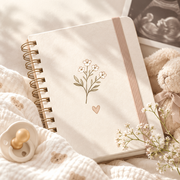
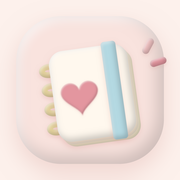
Add files via upload

diff --git a/index.html b/index.html
@@ -3,20 +3,20 @@
 <head>
 <meta charset="utf-8">
 <meta name="viewport" content="width=device-width, initial-scale=1, viewport-fit=cover">
-<title>出産準備ノート</title>
-<meta name="theme-color" content="#FCF2EF">
+<title>ママノート</title>
+<meta name="theme-color" content="#FEF7F4">
 <meta name="apple-mobile-web-app-capable" content="yes">
 <meta name="mobile-web-app-capable" content="yes">
-<meta name="apple-mobile-web-app-title" content="出産準備ノート">
+<meta name="apple-mobile-web-app-title" content="ママノート">
 <meta name="apple-mobile-web-app-status-bar-style" content="default">
 <link rel="manifest" href="manifest.webmanifest">
 <link rel="apple-touch-icon" href="apple-touch-icon.png">
 <link rel="icon" type="image/png" sizes="32x32" href="favicon-32.png">
 <style>
 :root{
-  --bg:#FCF2EF; --bg2:#F5E6E2; --card:#FFFDFB; --ink:#4E3F3C; --sub:#84706A; --faint:#C2AFA9;
-  --line:#F1E2DD; --blue:#EDB9BF; --blue-d:#B5707C; --blue-l:#FAE6E8;
-  --brown:#B39580; --brown-d:#7F6350; --brown-l:#F4E8DE;
+  --bg:#FEF7F4; --bg2:#F9ECE7; --card:#FFFDFB; --ink:#4F3F42; --sub:#85707A; --faint:#CBB9BC;
+  --line:#F3E4E2; --blue:#EDBFBF; --blue-d:#E3969F; --blue-l:#FCE6E8; --acc-ink:#B24C5F;
+  --brown:#8FC3D2; --brown-d:#3F7F93; --brown-l:#E4F3F7;
   --serif:"Hiragino Maru Gothic ProN","Zen Maru Gothic","Yu Gothic","Noto Sans JP",sans-serif;
   --sans:"Hiragino Maru Gothic ProN","Hiragino Sans","Yu Gothic","Noto Sans JP",system-ui,sans-serif;
 }
@@ -31,27 +31,27 @@ svg.i{width:22px;height:22px;fill:none;stroke:currentColor;stroke-width:1.7;stro
 .ph{padding:30px 0 20px}
 .ph h1{margin:0;font-family:var(--serif);font-size:27px;font-weight:600;letter-spacing:.05em;line-height:1.35}
 .ph p{margin:6px 0 0;color:var(--sub);font-size:13px}
-.back{display:inline-flex;align-items:center;gap:2px;color:var(--blue-d);font-size:13px;font-weight:600;margin:20px 0 0 -4px;padding:6px 6px 6px 0}
+.back{display:inline-flex;align-items:center;gap:2px;color:var(--acc-ink);font-size:13px;font-weight:600;margin:20px 0 0 -4px;padding:6px 6px 6px 0}
 .back svg.i{width:18px;height:18px}
 .back + .ph{padding-top:8px}
 
 /* cards */
-.card{background:var(--card);border-radius:26px;padding:20px;margin-bottom:16px;border:1px solid rgba(241,226,221,.8);box-shadow:0 10px 30px rgba(160,100,104,.07)}
+.card{background:var(--card);border-radius:26px;padding:20px;margin-bottom:16px;border:1px solid rgba(241,229,220,.8);box-shadow:0 10px 30px rgba(190,140,130,.07)}
 .card h2,.card h3{font-family:var(--serif);font-weight:600;margin:0;letter-spacing:.03em}
 .card h3{font-size:17px}
 .sub{color:var(--sub);font-size:12.5px}
 .sec{font-family:var(--serif);font-size:15px;font-weight:600;margin:26px 2px 12px;color:var(--brown-d);letter-spacing:.04em}
 
 /* hero */
-.hero{background:var(--blue-d);color:#FFFCF7;border:0;padding:26px 24px 22px;box-shadow:0 14px 34px rgba(181,112,124,.30)}
+.hero{background:#F7D0D4;color:var(--ink);border:0;padding:26px 24px 22px;box-shadow:0 14px 34px rgba(227,150,159,.32)}
 .hero .hl{font-size:13px;opacity:.85;letter-spacing:.12em}
 .hero .big{font-family:var(--serif);font-size:20px;margin:4px 0 6px;display:flex;align-items:baseline;gap:4px;white-space:nowrap}
-.hero .big b{font-size:64px;font-weight:500;line-height:1.1;letter-spacing:-.02em;margin-left:2px}
+.hero .big b{color:var(--acc-ink);font-size:64px;font-weight:500;line-height:1.1;letter-spacing:-.02em;margin-left:2px}
 .hero .big b + span{margin-right:10px}
 .hero .hs{font-size:15px}
 .hero .hs b{font-family:var(--serif);font-size:22px;font-weight:600;margin:0 2px}
-.hero .pb{background:rgba(255,252,247,.25);margin:18px 0 12px}
-.hero .pb i{background:#FFFCF7}
+.hero .pb{background:rgba(255,253,250,.65);margin:18px 0 12px}
+.hero .pb i{background:#E3969F}
 .hero .hm{display:flex;justify-content:space-between;font-size:12.5px;opacity:.9;gap:8px}
 .hero .lnk{margin-top:14px;font-size:12.5px;text-decoration:underline;text-underline-offset:3px;opacity:.9}
 .hero h2{font-size:19px}
@@ -59,12 +59,12 @@ svg.i{width:22px;height:22px;fill:none;stroke:currentColor;stroke-width:1.7;stro
 
 /* progress */
 .pb{height:8px;background:var(--bg2);border-radius:99px;overflow:hidden}
-.pb i{display:block;height:100%;background:var(--blue);border-radius:99px;min-width:0}
+.pb i{display:block;height:100%;background:var(--blue-d);border-radius:99px;min-width:0}
 .pb.br i{background:var(--brown)}
 
 /* tiles */
 .grid2{display:grid;grid-template-columns:1fr 1fr;gap:14px;margin-bottom:16px}
-.tile-s{background:var(--card);border-radius:20px;padding:16px;border:1px solid rgba(241,226,221,.8);box-shadow:0 8px 24px rgba(160,100,104,.06);display:flex;flex-direction:column;gap:8px;min-height:128px}
+.tile-s{background:var(--card);border-radius:20px;padding:16px;border:1px solid rgba(241,229,220,.8);box-shadow:0 8px 24px rgba(190,140,130,.06);display:flex;flex-direction:column;gap:8px;min-height:128px}
 .tile-s .t{font-size:12.5px;color:var(--sub)}
 .tile-s .v{font-family:var(--serif);font-size:30px;line-height:1.15;font-weight:500}
 .tile-s .v small{font-size:13px;margin-left:2px}
@@ -72,8 +72,8 @@ svg.i{width:22px;height:22px;fill:none;stroke:currentColor;stroke-width:1.7;stro
 .tile-s .n{font-size:12px;color:var(--sub)}
 
 /* link rows */
-.lrow{display:flex;align-items:center;gap:14px;width:100%;padding:17px 20px;background:var(--card);border-radius:20px;margin-bottom:12px;border:1px solid rgba(241,226,221,.8);box-shadow:0 8px 24px rgba(160,100,104,.05)}
-.lrow .ic{width:42px;height:42px;border-radius:14px;background:var(--blue-l);color:var(--blue-d);display:grid;place-items:center;flex:none}
+.lrow{display:flex;align-items:center;gap:14px;width:100%;padding:17px 20px;background:var(--card);border-radius:20px;margin-bottom:12px;border:1px solid rgba(241,229,220,.8);box-shadow:0 8px 24px rgba(190,140,130,.05)}
+.lrow .ic{width:42px;height:42px;border-radius:14px;background:var(--blue-l);color:var(--acc-ink);display:grid;place-items:center;flex:none}
 .lrow .ic.b{background:var(--brown-l);color:var(--brown-d)}
 .lrow .tt{flex:1;min-width:0}
 .lrow .tt b{display:block;font-family:var(--serif);font-size:16px;font-weight:600}
@@ -81,12 +81,12 @@ svg.i{width:22px;height:22px;fill:none;stroke:currentColor;stroke-width:1.7;stro
 .lrow > svg.i{width:18px;height:18px;color:var(--faint)}
 
 /* buttons / inputs */
-.btn{display:inline-flex;align-items:center;justify-content:center;gap:6px;background:var(--blue-d);color:#FFFCF7;border-radius:14px;padding:13px 20px;font-weight:600;font-size:15px;letter-spacing:.04em;text-align:center}
+.btn{display:inline-flex;align-items:center;justify-content:center;gap:6px;background:var(--blue-d);color:#4F2F33;border-radius:14px;padding:13px 20px;font-weight:600;font-size:15px;letter-spacing:.04em;text-align:center}
 .btn:active{transform:scale(.98)}
 .btn.sm{padding:11px 16px;font-size:14px;flex:none}
 .btn.block{display:flex;width:100%;margin-top:6px}
 .btn.ghost{background:var(--brown-l);color:var(--brown-d)}
-.btn.cream{background:#FFFCF7;color:var(--blue-d)}
+.btn.cream{background:var(--blue-d);color:#4F2F33}
 .btn svg.i{width:18px;height:18px}
 .btn-text{display:block;width:100%;text-align:center;padding:14px;font-size:14px;color:var(--sub)}
 .btn-text.danger{color:#A5594B}
@@ -101,14 +101,14 @@ textarea.in{resize:vertical;line-height:1.6}
 .hid{position:absolute;width:1px;height:1px;opacity:0;pointer-events:none}
 .top-act{display:flex;justify-content:flex-end;margin:-6px 0 16px}
 .empty{text-align:center;color:var(--sub);font-size:13.5px;padding:34px 12px}
-.hero.empty{text-align:left;color:#FFFCF7;padding:26px 24px}
-.hero .in{background:rgba(255,252,247,.96)}
+.hero.empty{text-align:left;color:var(--ink);padding:26px 24px}
+.hero .in{background:rgba(255,253,250,.96)}
 
 /* checklist */
 .cat{padding:0;overflow:hidden}
 .cat-h{display:flex;align-items:center;gap:12px;width:100%;padding:18px 20px 12px}
 .cat-h > div:first-child{flex:1;min-width:0}
-.pc{font-family:var(--serif);font-size:20px;color:var(--blue-d)}
+.pc{font-family:var(--serif);font-size:20px;color:var(--acc-ink)}
 .chev{color:var(--faint);transition:transform .2s}
 .chev.up{transform:rotate(90deg)}
 .chev svg.i{width:18px;height:18px}
@@ -116,9 +116,9 @@ textarea.in{resize:vertical;line-height:1.6}
 .items{padding:0 20px 20px;border-top:1px solid var(--line)}
 .it{padding:12px 0;border-bottom:1px solid var(--line)}
 .itm{display:flex;align-items:center;gap:12px}
-.ck{width:26px;height:26px;border-radius:50%;border:1.8px solid var(--blue);display:grid;place-items:center;flex:none;color:transparent;background:#fff}
+.ck{width:26px;height:26px;border-radius:50%;border:1.8px solid var(--blue-d);display:grid;place-items:center;flex:none;color:transparent;background:#fff}
 .ck svg.i{width:15px;height:15px;stroke-width:2.6}
-.ck.on{background:var(--blue-d);border-color:var(--blue-d);color:#FFFCF7}
+.ck.on{background:var(--blue-d);border-color:var(--blue-d);color:#4F2F33}
 .tx{flex:1;min-width:0;word-break:break-all}
 .done .tx{color:var(--faint);text-decoration:line-through;text-decoration-color:var(--faint)}
 .ib{width:34px;height:34px;border-radius:10px;display:grid;place-items:center;color:var(--faint);flex:none}
@@ -131,11 +131,11 @@ textarea.in{resize:vertical;line-height:1.6}
 /* timeline */
 .tl{position:relative;padding-left:24px;margin-top:6px}
 .tl:before{content:"";position:absolute;left:6px;top:10px;bottom:10px;width:2px;background:var(--line)}
-.tli{position:relative;width:100%;display:block;background:var(--card);border-radius:20px;padding:16px 18px;margin-bottom:14px;border:1px solid rgba(241,226,221,.8);box-shadow:0 8px 24px rgba(160,100,104,.06)}
+.tli{position:relative;width:100%;display:block;background:var(--card);border-radius:20px;padding:16px 18px;margin-bottom:14px;border:1px solid rgba(241,229,220,.8);box-shadow:0 8px 24px rgba(190,140,130,.06)}
 .tli:before{content:"";position:absolute;left:-23px;top:22px;width:12px;height:12px;border-radius:50%;background:var(--card);border:3px solid var(--blue)}
 .tli .d{display:flex;justify-content:space-between;align-items:baseline;gap:8px}
 .tli .d b{font-family:var(--serif);font-size:16px;font-weight:600}
-.badge{background:var(--blue-l);color:var(--blue-d);font-size:12px;font-weight:600;padding:3px 10px;border-radius:99px;white-space:nowrap}
+.badge{background:var(--blue-l);color:var(--acc-ink);font-size:12px;font-weight:600;padding:3px 10px;border-radius:99px;white-space:nowrap}
 .chips{display:flex;flex-wrap:wrap;gap:8px;margin:12px 0 0}
 .chip{background:var(--bg);border-radius:12px;padding:6px 11px;font-family:var(--serif);font-size:16px}
 .chip em{font-style:normal;font-family:var(--sans);font-size:11px;color:var(--sub);margin-right:6px}
@@ -144,7 +144,7 @@ textarea.in{resize:vertical;line-height:1.6}
 
 /* echo */
 .gal{display:grid;grid-template-columns:1fr 1fr;gap:12px}
-.pt{position:relative;aspect-ratio:1;border-radius:18px;overflow:hidden;background:var(--bg2);display:block;width:100%;box-shadow:0 8px 22px rgba(160,100,104,.12)}
+.pt{position:relative;aspect-ratio:1;border-radius:18px;overflow:hidden;background:var(--bg2);display:block;width:100%;box-shadow:0 8px 22px rgba(190,140,130,.12)}
 .pt img{width:100%;height:100%;object-fit:cover;display:block}
 .pt span{position:absolute;left:0;right:0;bottom:0;padding:22px 12px 10px;color:#FFFCF7;font-size:12px;line-height:1.4;background:linear-gradient(transparent,rgba(60,48,40,.62))}
 .pt span b{display:block;font-family:var(--serif);font-size:15px;font-weight:600}
@@ -167,9 +167,9 @@ textarea.in{resize:vertical;line-height:1.6}
 .mh button svg.i{width:18px;height:18px}
 .cal{display:grid;grid-template-columns:repeat(7,1fr);gap:6px}
 .cal .w{text-align:center;font-size:11px;color:var(--sub);padding-bottom:4px}
-.cal .w:first-child{color:#B77F72}
-.cal .w:last-child{color:#7C9BAA}
-.cal button,.cal i{aspect-ratio:1/1.34;border-radius:14px;display:flex;flex-direction:column;align-items:center;justify-content:center;gap:2px;font-family:var(--serif);font-size:15px;line-height:1.1;background:var(--bg);padding:0;position:relative;min-width:0}
+.cal .w:first-child{color:#C07C78}
+.cal .w:last-child{color:#5E9BB0}
+.cal button,.cal i{aspect-ratio:1/1.34;border-radius:14px;display:flex;flex-direction:column;align-items:center;justify-content:center;gap:2px;font-family:var(--serif);font-size:15px;line-height:1.1;background:var(--bg2);padding:0;position:relative;min-width:0}
 .cal button small{font-size:9.5px;opacity:.72;letter-spacing:-.02em;font-family:var(--sans)}
 .cal button small.wk0{opacity:1;font-weight:700}
 .cal button s{position:absolute;top:4px;right:4px;width:6px;height:6px;border-radius:50%;background:var(--brown-d);box-shadow:0 0 0 1.5px #FFFDFB;text-decoration:none}
@@ -201,12 +201,12 @@ textarea.in{resize:vertical;line-height:1.6}
 .mood-b.on{box-shadow:inset 0 0 0 2px var(--blue-d);background:var(--blue-l)}
 
 /* diary */
-.dr{display:flex;gap:14px;width:100%;padding:16px 18px;background:var(--card);border-radius:20px;margin-bottom:12px;border:1px solid rgba(241,226,221,.8);box-shadow:0 8px 24px rgba(160,100,104,.05);align-items:center}
+.dr{display:flex;gap:14px;width:100%;padding:16px 18px;background:var(--card);border-radius:20px;margin-bottom:12px;border:1px solid rgba(241,229,220,.8);box-shadow:0 8px 24px rgba(190,140,130,.05);align-items:center}
 .dr .dd{width:48px;text-align:center;flex:none}
 .dr .dd b{display:block;font-family:var(--serif);font-size:26px;font-weight:500;line-height:1.1}
 .dr .dd small{font-size:11px;color:var(--sub)}
 .dr .tt{flex:1;min-width:0;word-break:break-all}
-.dr .tt small{display:block;color:var(--blue-d);font-size:11.5px;font-weight:600}
+.dr .tt small{display:block;color:var(--acc-ink);font-size:11.5px;font-weight:600}
 .dr img{width:56px;height:56px;border-radius:12px;object-fit:cover;flex:none}
 .dform .pvs{display:flex;align-items:center;gap:12px;margin-top:12px}
 .dform .pvs img{width:64px;height:64px;border-radius:12px;object-fit:cover}
@@ -225,8 +225,8 @@ textarea.in{resize:vertical;line-height:1.6}
 /* nav */
 nav{position:fixed;left:0;right:0;bottom:0;z-index:40;background:rgba(255,252,247,.92);-webkit-backdrop-filter:blur(18px);backdrop-filter:blur(18px);border-top:1px solid var(--line);padding-bottom:env(safe-area-inset-bottom)}
 nav div{max-width:520px;margin:0 auto;display:grid;grid-template-columns:repeat(5,1fr);padding:8px 10px 6px}
-nav button{display:flex;flex-direction:column;align-items:center;gap:3px;padding:6px 0;border-radius:14px;color:var(--faint);font-size:10.5px;font-weight:600;text-align:center}
-nav button.on{color:var(--blue-d);background:var(--blue-l)}
+nav button{display:flex;flex-direction:column;align-items:center;gap:3px;padding:6px 0;border-radius:14px;color:#9B8780;font-size:10.5px;font-weight:600;text-align:center}
+nav button.on{color:var(--acc-ink);background:var(--blue-l)}
 #toast{position:fixed;left:50%;bottom:calc(100px + env(safe-area-inset-bottom));transform:translateX(-50%);background:rgba(75,64,56,.94);color:#FFFCF7;padding:10px 18px;border-radius:99px;font-size:13px;z-index:80;opacity:0;pointer-events:none;transition:opacity .2s;max-width:90vw;text-align:center}
 #toast.on{opacity:1}
 .note{font-size:12.5px;color:var(--sub);margin:10px 0 0;line-height:1.7}
@@ -273,36 +273,50 @@ const pb=(p,c='')=>`<div class="pb ${c}" role="progressbar" aria-valuenow="${p}"
 
 /* ===== data ===== */
 const KEY='shussan-note-v1';
-const MOODS=[{v:1,n:'元気',c:'#F4CFD3'},{v:2,n:'軽い',c:'#E8A9B2'},{v:3,n:'普通',c:'#E6D6C6'},{v:4,n:'つらい',c:'#C99C90'},{v:5,n:'とてもつらい',c:'#8F625E'}];
+const MOODS=[{v:1,n:'元気',c:'#B4D9E2'},{v:2,n:'軽い',c:'#E8E9C7'},{v:3,n:'普通',c:'#EDBFBF'},{v:4,n:'つらい',c:'#E3969F'},{v:5,n:'とてもつらい',c:'#C05468'}];
 function defaults(){
   const L={
-   'ベビー服':['ボディ肌着 … 6枚','2wayオール … 3枚','おくるみ … 2枚','スワドル … 2枚','ガーゼ … 10枚程度',['退院着','マストではない。短肌着はあまり使わない派が多いので、必要なら産後に購入。']],
-   'お風呂・ケア':[['ベビーバス','体温計は大人用で大丈夫。温度計は不要と判断。'],'ボディソープ','保湿クリーム','バスタオル（ガーゼ生地）… 4枚程度',['ベビーブラシ','毛量を見て産後でもOK。'],'爪切り',['鼻吸い器（電動タイプも◎）','産後購入でもOK。'],'ベビー綿棒'],
-   '寝具':['ベビーベッド','マットレス',['ペットシーツ','枕・掛け布団は基本用意しなくてOK。防水シーツより使い捨てのペットシーツの方が楽との声あり。']],
-   'おむつ':['新生児用おむつ',['おしりふき','コストコのRICOが良い。'],['おむつ防臭袋','パン袋が良い。'],'おむつ替えシート（ペットシーツ）'],
-   'ミルク・授乳':['哺乳瓶 160ml … 2本','Sサイズ乳首 … 2個','哺乳瓶の除菌用品','哺乳瓶用洗剤','哺乳瓶用スポンジ',['授乳ライト','ホワイト・イエロー一体型（ドリームエッグ等）も候補。'],['粉ミルク … 1缶','産院と同じものを退院前後に買う方法でもOK。']],
-   '陣痛バッグ':['母子手帳','診察券','必要書類','財布','スマホ','充電器','延長コード','飲み物 … 4本','ストロー付きキャップ','軽食・おやつ','ハンディファン','テニスボール','冷えピタ','カイロ','マスク','ハンカチ … 3枚','リップ','汗ふきシート','パジャマ','産褥ショーツ','産褥パッド','筆記用具','夫分の飲み物と軽食'],
-   '入院バッグ':['パジャマ … 2着','スリッパ','靴下 … 2〜3足','着圧ソックス','レッグウォーマー','カーディガン','バスタオル','枕カバー用のフェイスタオル','母乳パッド','授乳ブラ … 3枚〜','ピュアレーン','おしりセレブ','除菌シート','円座クッション','骨盤ベルト','シャンプー','トリートメント','入浴後のヘアトリートメント','ドライシャンプー','スキンケア用品','メイクポーチ','ジップロック',['保冷剤','産後に胸が痛くなるため、あると良いとのこと。'],'洗濯ネット','飲み物','おやつ','手形・足形を取るもの','自身の退院着'],
-   'ちょこっとメモ':[['ベビーカー','産後でも間に合うことが多い。実際に試してから選ぶのも◎'],['抱っこ紐','産後でも間に合うことが多い。実際に試してから選ぶのも◎'],['チャイルドシート','退院時に自家用車で帰る場合は、事前に用意しておく。']]
+   '母乳育児':['母乳パッド','さく乳器','授乳クッション','乳首クリーム','母乳フリーザーパック'],
+   'ベビー服・お洗たく':['短肌着（3枚〜）','長肌着（3枚〜5枚）','ベビーウェア（2〜3枚）','おくるみ','ベビー用洗剤'],
+   '哺乳びん・乳首':['哺乳びん（3〜5本）','乳首（1〜2個）','ミルク'],
+   '哺乳びんの洗浄・除菌・保管':['哺乳びん洗剤','哺乳びんブラシ','乳首ブラシ','除菌料または除菌グッズ','消毒ケースまたは乾燥器'],
+   'おむつ':['紙おむつ','おしりふき','おむつ用ごみ箱','おむつ替えシート'],
+   'おへや':['ベビー布団＆カバー','ベビーベッド','防水シーツ','温湿度計','タオルケット','バウンサー'],
+   'おふろ':['ベビーバス','ベビーソープ','沐浴布'],
+   'お出かけ':['チャイルドシート','抱っこひも','ベビーカー'],
+   'スキンケア':['ベビーローション','ベビークリーム'],
+   'おしゃぶり・おもちゃ':['おしゃぶり','ベッドメリー'],
+   'お手入れ':['電動爪やすり','爪切り','ベビー綿棒','ガーゼ','ベビーオイル'],
+   '健康管理':['ベビー体温計','鼻吸い器'],
+   '入院準備・産後インナー':['母子手帳','診察券','骨盤ベルト','授乳ブラ','産褥ショーツ','着圧ソックス','リフォームインナー','授乳口つきパジャマ','退院着（ママ用）'],
+   'あると便利':['ベビーセンサー','電気ケトル','ウォーターサーバー','おしりふきウォーマー（冬生まれ）']
   };
-  const mk=x=>Array.isArray(x)?{id:uid(),t:x[0],done:false,memo:x[1]}:{id:uid(),t:x,done:false,memo:''};
-  return{v:1,due:'',
+  const mk=x=>({id:uid(),t:x,done:false,memo:''});
+  return{v:1,listVer:2,due:'',
    cats:Object.keys(L).map(n=>({id:uid(),name:n,items:L[n].map(mk)})),
    checkups:[],echoes:[],moods:{},diary:{},
    wishes:['マタニティフォト','ジェンダーリビール','ベビー服購入','名前決め','夫婦デート'].map(t=>({id:uid(),t,done:false}))};
 }
 function normalize(o){
   const d=defaults(); if(!o||typeof o!=='object') return d;
+  const oldVer=o.listVer||1;
   const r=Object.assign(d,o);
   ['cats','checkups','echoes','wishes'].forEach(k=>{if(!Array.isArray(r[k]))r[k]=d[k]});
   ['moods','diary'].forEach(k=>{if(!r[k]||typeof r[k]!=='object'||Array.isArray(r[k]))r[k]={}});
   if(typeof r.due!=='string')r.due='';
+  if(oldVer<2){
+    const done=new Set(),memo={};
+    (Array.isArray(o.cats)?o.cats:[]).forEach(c=>(c.items||[]).forEach(i=>{if(i.done)done.add(i.t);if(i.memo)memo[i.t]=i.memo}));
+    const nd=defaults();nd.cats.forEach(c=>c.items.forEach(i=>{if(done.has(i.t))i.done=true;if(memo[i.t])i.memo=memo[i.t]}));
+    r.cats=nd.cats;
+  }
+  r.listVer=2;
   return r;
 }
 function load(){try{const t=localStorage.getItem(KEY);return t?normalize(JSON.parse(t)):defaults()}catch(e){return defaults()}}
 let S=load();
 function save(){try{localStorage.setItem(KEY,JSON.stringify(S));return true}catch(e){toast('端末の保存容量がいっぱいです。写真を整理してください');return false}}
-if(!localStorage.getItem(KEY)) save();
+save();
 
 /* ===== pregnancy calc ===== */
 function rawDays(s){return S.due?dn(s)-(dn(S.due)-280):null}
@@ -347,7 +361,7 @@ function vHome(){
   const now=new Date();const mv=monthMoods(now.getFullYear(),now.getMonth()).filter(Boolean);
   const avg=mv.length?mv.reduce((a,b)=>a+b,0)/mv.length:0;
   const last=[...S.checkups].sort((a,b)=>b.date.localeCompare(a.date))[0];
-  return head('出産準備ノート',jd(t))+hero+`
+  return head('ママノート',jd(t))+hero+`
   <div class="grid2">
    <button class="tile-s" data-act="go" data-v="prep"><span class="t">出産準備</span><span class="v">${ps.p}<small>%</small></span>${pb(ps.p)}<span class="n">${ps.d} / ${ps.t} 完了</span></button>
    <button class="tile-s" data-act="go" data-v="wish"><span class="t">やりたいこと</span><span class="v">${ws.p}<small>%</small></span>${pb(ws.p,'br')}<span class="n">${ws.d} / ${ws.t} 達成</span></button>
@@ -391,7 +405,7 @@ function spark(){
   const W=300,H=84,p=10,vs=pts.map(c=>parseFloat(c.efw)),mn=Math.min(...vs),mx=Math.max(...vs);
   const x=i=>p+i*(W-2*p)/(pts.length-1),y=v=>mx===mn?H/2:H-p-(v-mn)/(mx-mn)*(H-2*p);
   const line=vs.map((v,i)=>`${x(i).toFixed(1)},${y(v).toFixed(1)}`).join(' ');
-  return `<div class="card"><h3>推定体重の推移</h3><svg viewBox="0 0 ${W} ${H}" width="100%" style="margin-top:12px;display:block" role="img" aria-label="推定体重の推移グラフ"><polyline points="${line}" fill="none" stroke="#EDB9BF" stroke-width="2.5" stroke-linejoin="round" stroke-linecap="round"/>${vs.map((v,i)=>`<circle cx="${x(i).toFixed(1)}" cy="${y(v).toFixed(1)}" r="4" fill="#FFFDFB" stroke="#B5707C" stroke-width="2.5"/>`).join('')}</svg><div class="axis" style="margin-top:6px"><span>${jd(pts[0].date,false)}</span><span>最新 ${Math.round(vs[vs.length-1]).toLocaleString()}g</span></div></div>`;
+  return `<div class="card"><h3>推定体重の推移</h3><svg viewBox="0 0 ${W} ${H}" width="100%" style="margin-top:12px;display:block" role="img" aria-label="推定体重の推移グラフ"><polyline points="${line}" fill="none" stroke="#E3969F" stroke-width="2.5" stroke-linejoin="round" stroke-linecap="round"/>${vs.map((v,i)=>`<circle cx="${x(i).toFixed(1)}" cy="${y(v).toFixed(1)}" r="4" fill="#FFFDFB" stroke="#B24C5F" stroke-width="2.5"/>`).join('')}</svg><div class="axis" style="margin-top:6px"><span>${jd(pts[0].date,false)}</span><span>最新 ${Math.round(vs[vs.length-1]).toLocaleString()}g</span></div></div>`;
 }
 function vCheckup(){
   const list=[...S.checkups].sort((a,b)=>b.date.localeCompare(a.date));
@@ -454,11 +468,11 @@ function vCal(){
   let cells=WD.map(w=>`<div class="w">${w}</div>`).join('')+'<i></i>'.repeat(first);
   for(let d=1;d<=dim;d++){
     const k=`${Y}-${pad(M+1)}-${pad(d)}`,v=S.moods[k],g=gest(k),has=S.diary[k];
-    cells+=`<button class="${k===t?'td':''}" data-act="pickDay" data-date="${k}" aria-label="${M+1}月${d}日${g?' 妊娠'+g.w+'週'+g.d+'日':''} ${v?MOODS[v-1].n:''}${has?' 日記あり':''}" ${v?`style="background:${MOODS[v-1].c};color:${v>3?'#FFFDFB':'#4E3F3C'}"`:''}>${d}${g?`<small class="${g.d===0?'wk0':''}">${g.w}w${g.d}d</small>`:''}${has?'<s></s>':''}</button>`;
+    cells+=`<button class="${k===t?'td':''}" data-act="pickDay" data-date="${k}" aria-label="${M+1}月${d}日${g?' 妊娠'+g.w+'週'+g.d+'日':''} ${v?MOODS[v-1].n:''}${has?' 日記あり':''}" ${v?`style="background:${MOODS[v-1].c};color:${v>4?'#FFFDFB':'#4F3F42'}"`:''}>${d}${g?`<small class="${g.d===0?'wk0':''}">${g.w}w${g.d}d</small>`:''}${has?'<s></s>':''}</button>`;
   }
   const arr=monthMoods(Y,M),rec=arr.filter(Boolean),avg=rec.length?rec.reduce((a,b)=>a+b,0)/rec.length:0;
   const cnt=MOODS.map(m=>rec.filter(v=>v===m.v).length),hard=cnt[3]+cnt[4];
-  const bars=arr.map(v=>`<i style="height:${v?v*20:4}%;background:${v?MOODS[v-1].c:'#F1E2DD'}"></i>`).join('');
+  const bars=arr.map(v=>`<i style="height:${v?v*20:4}%;background:${v?MOODS[v-1].c:'#F3E4E2'}"></i>`).join('');
   const g={};Object.entries(S.moods).forEach(([k,v])=>{const m=k.slice(0,7);(g[m]=g[m]||[]).push(v)});
   const months=Object.keys(g).sort().slice(-8);
   return head('カレンダー','日記とつわりを日ごとに記録')+
@@ -553,8 +567,8 @@ const A={
  toggleWish:d=>{const w=S.wishes.find(w=>w.id===d.id);if(w){w.done=!w.done;save();render()}},
  delWish:d=>{const w=S.wishes.find(w=>w.id===d.id);if(!w||!confirm(`「${w.t}」を削除しますか？`))return;S.wishes=S.wishes.filter(x=>x.id!==d.id);save();render()},
  exportData:async()=>{
-  const name=`shussan-note-${todayS()}.json`,file=new File([JSON.stringify(S)],name,{type:'application/json'});
-  if(navigator.canShare&&navigator.canShare({files:[file]})){try{await navigator.share({files:[file],title:'出産準備ノート バックアップ'});return}catch(e){if(e.name==='AbortError')return}}
+  const name=`mama-note-${todayS()}.json`,file=new File([JSON.stringify(S)],name,{type:'application/json'});
+  if(navigator.canShare&&navigator.canShare({files:[file]})){try{await navigator.share({files:[file],title:'ママノート バックアップ'});return}catch(e){if(e.name==='AbortError')return}}
   const url=URL.createObjectURL(file),a=document.createElement('a');a.href=url;a.download=name;document.body.appendChild(a);a.click();a.remove();setTimeout(()=>URL.revokeObjectURL(url),4000);toast('書き出しました');
  },
  importData:()=>$('#imp').click(),
